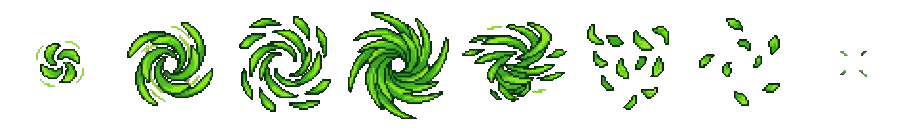
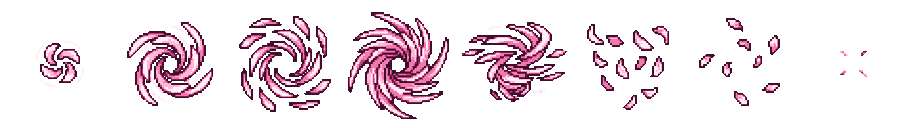
Muddy Water recolored to mud and Petal Blizzard to pink petals; generator rule for subject colors
Claude-Session: https://claude.ai/code/session_01U3jcx4E7bR9kxD8eqtvJc6

diff --git a/tools/vfx/convert.py b/tools/vfx/convert.py
@@ -177,6 +177,29 @@ def frames_of(a, layout):
     return [a[y0:y1, x0:x1] for x0, y0, x1, y1 in layout]
 
 
+# Sheets that came in the wrong colors (the queue gave them the palette of only one of their types): each pixel is
+# moved to the color of the same brightness in this ramp, darkest (outline) to lightest
+RECOLOR = {
+    "MuddyWater": ["#1C1108", "#36220F", "#52371A", "#6E4E28", "#8E6A3E", "#B48E5E"],  # silt brown
+    "PetalBlizzard": ["#3E0F2A", "#7A1F4E", "#C23D7E", "#F07AAE", "#FFB8D6", "#FFF0F6"],  # flower pink
+}
+
+
+def recolor(strip, ramp):
+    rgb = strip[..., :3].astype(float)
+    lum = rgb @ np.array([0.299, 0.587, 0.114])
+    on = strip[..., 3] > 0
+    if not on.any():
+        return strip
+    # spread the brightness of this sheet over the whole ramp
+    lo, hi = np.percentile(lum[on], 2), np.percentile(lum[on], 98)
+    t = np.clip((lum - lo) / max(hi - lo, 1), 0, 0.999)
+    cols = np.array([[int(c[i:i + 2], 16) for i in (1, 3, 5)] for c in ramp])
+    out = strip.copy()
+    out[..., :3][on] = cols[(t[on] * len(ramp)).astype(int)]
+    return out
+
+
 def main():
     only = set(sys.argv[3].split(",")) if len(sys.argv) > 3 else None
     for file, move, layout, k, settings in SHEETS:
@@ -192,6 +215,8 @@ def main():
         for i, f in enumerate(fr):
             y, x = (h - f.shape[0]) // 2, (w - f.shape[1]) // 2
             strip[y:y + f.shape[0], i * w + x:i * w + x + f.shape[1]] = f.clip(0, 255).astype(np.uint8)
+        if move in RECOLOR:
+            strip = recolor(strip, RECOLOR[move])
         Image.fromarray(strip, "RGBA").save(f"{OUT}/{move}.png", optimize=True)
         lines = [f"Frames {len(fr)}"] + [f"{key} {val}" for key, val in settings.items()] + ["Scale 1"]
         open(f"{OUT}/{move}.txt", "w").write("\n".join(lines) + "\n")

diff --git a/CHANGELOG.md b/CHANGELOG.md
@@ -23,7 +23,7 @@ Versions of **Pokerraria: LoveStory**, by Welsete. Based on [Terramon](https://g
 - Generated art for Drain Punch, Dynamic Punch, Focus Punch, Force Palm, Hammer Arm, Low Kick, Low Sweep and Rock Smash.
 - Generated art for Mach Punch (the boxer in the sheet cut out) and High Jump Kick (with a kicking silhouette).
 - Generated art for Mega Kick, Mega Punch, Stomp and Superpower (first batch made in Antigravity). No move uses a provisional code drawing anymore.
-- Generated art for Aqua Tail, Dive, Waterfall, Muddy Water, Surf, Wave Crash, Whirlpool, Rain Dance, Petal Blizzard and Power Whip.
+- Generated art for Aqua Tail, Dive, Waterfall, Muddy Water (recolored to silt brown), Surf, Wave Crash, Whirlpool, Rain Dance, Petal Blizzard (recolored to pink petals) and Power Whip.
 - Ice Beam redrawn in code: ice crystals growing out of the beam's edges.
 - Twister and Rock Slide now sit on the target instead of below it.
 - Test panel, Moves tab: search moves by name (click the box and type; right click clears). The rest of the moves are listed in VFX.md for the image generator.

diff --git a/art/vfx/INSTRUCAO_GEMINI.md b/art/vfx/INSTRUCAO_GEMINI.md
@@ -23,6 +23,8 @@ BACKGROUND
 PIXEL ART
 - Real pixel art: hard edges, no anti-aliasing, no blur, no soft glow halos, no semi-transparent pixels.
 - Use ONLY the palette colors listed in the prompt, in flat fills of 3 or 4 tones per shape.
+- Exception: when the SUBJECT names the color of the thing itself (pink flower petals, brown mud, purple poison),
+  draw it in that color with 6 tones of it, even if the listed palette is of another color.
 - A 1-pixel darker outline around the main shapes so they read over any background.
 - Chunky, readable silhouettes like Terraria's projectiles and dust; few, small sparks.
 - Every art pixel is the same size in the whole sheet.

diff --git a/art/vfx/antigravity/.agent/rules/vfx-pokerraria.md b/art/vfx/antigravity/.agent/rules/vfx-pokerraria.md
@@ -24,6 +24,8 @@ BACKGROUND
 PIXEL ART
 - Real pixel art: hard edges, no anti-aliasing, no blur, no soft glow halos, no semi-transparent pixels.
 - Use ONLY the palette colors listed in the prompt, in flat fills of 3 or 4 tones per shape.
+- Exception: when the SUBJECT names the color of the thing itself (pink flower petals, brown mud, purple poison),
+  draw it in that color with 6 tones of it, even if the listed palette is of another color.
 - A 1-pixel darker outline around the main shapes so they read over any background.
 - Chunky, readable silhouettes like Terraria's projectiles and dust; few, small sparks.
 - Every art pixel is the same size in the whole sheet.
